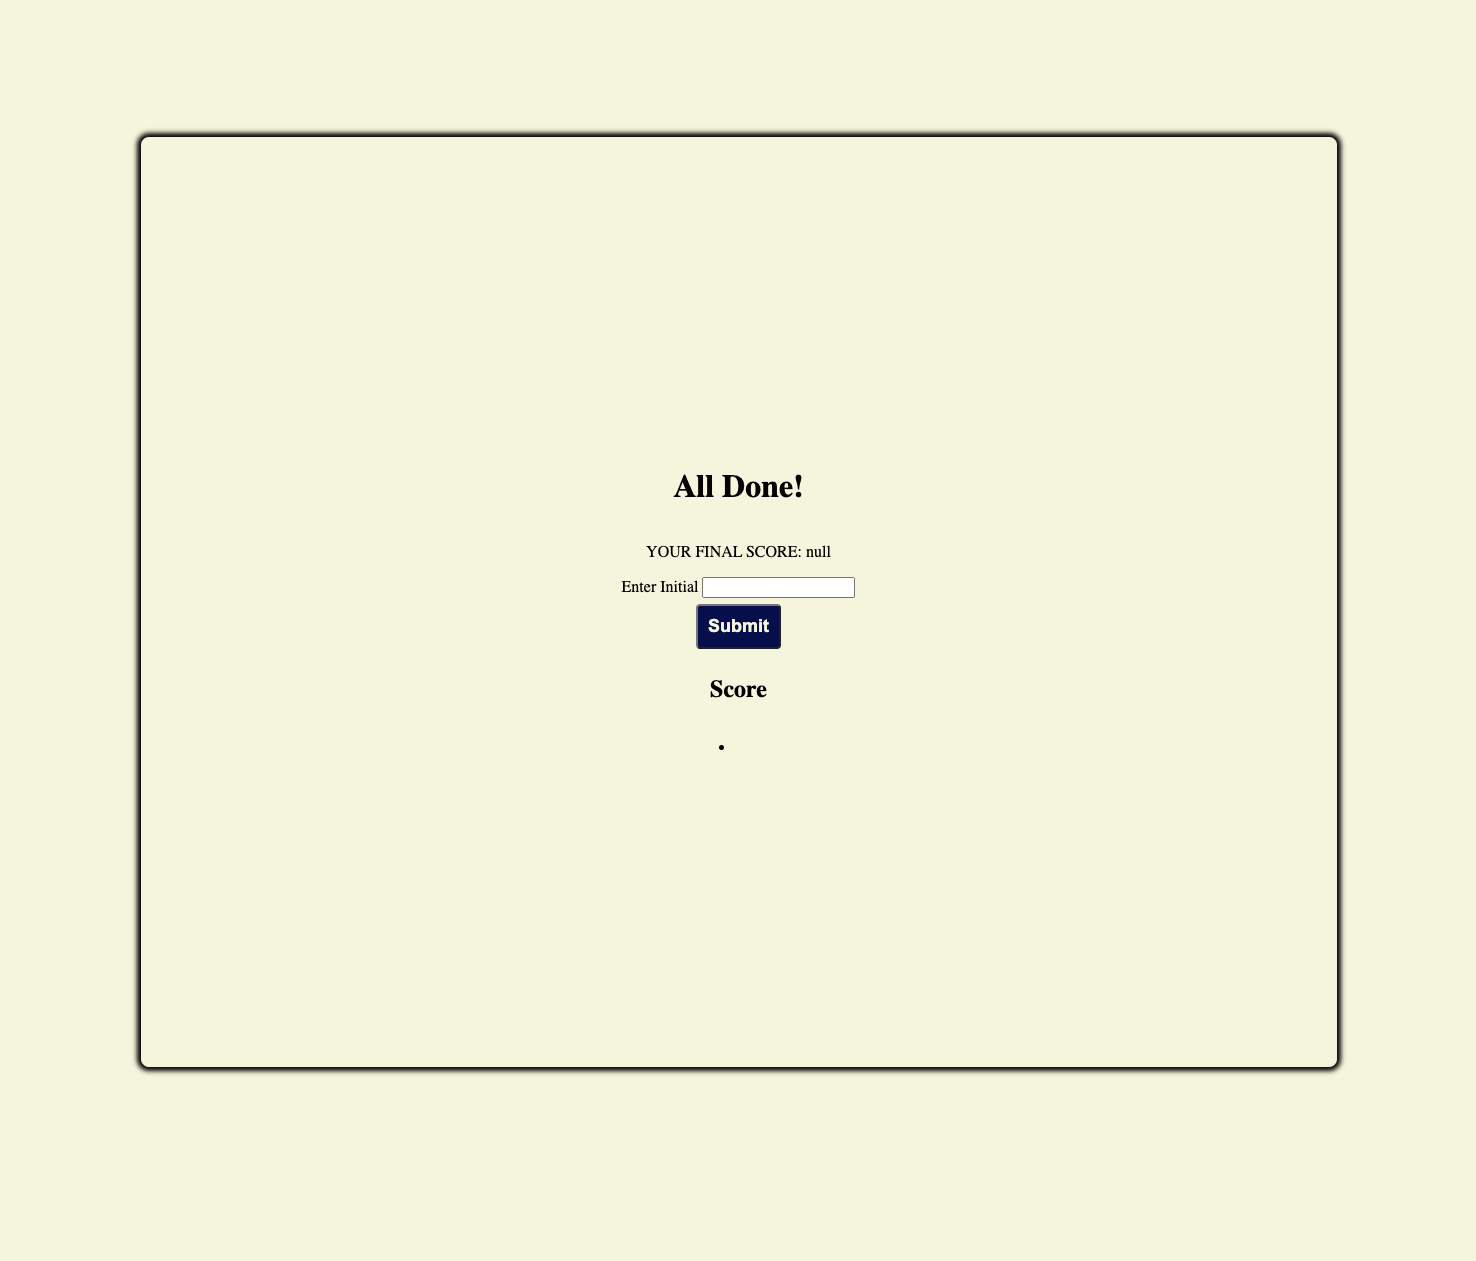
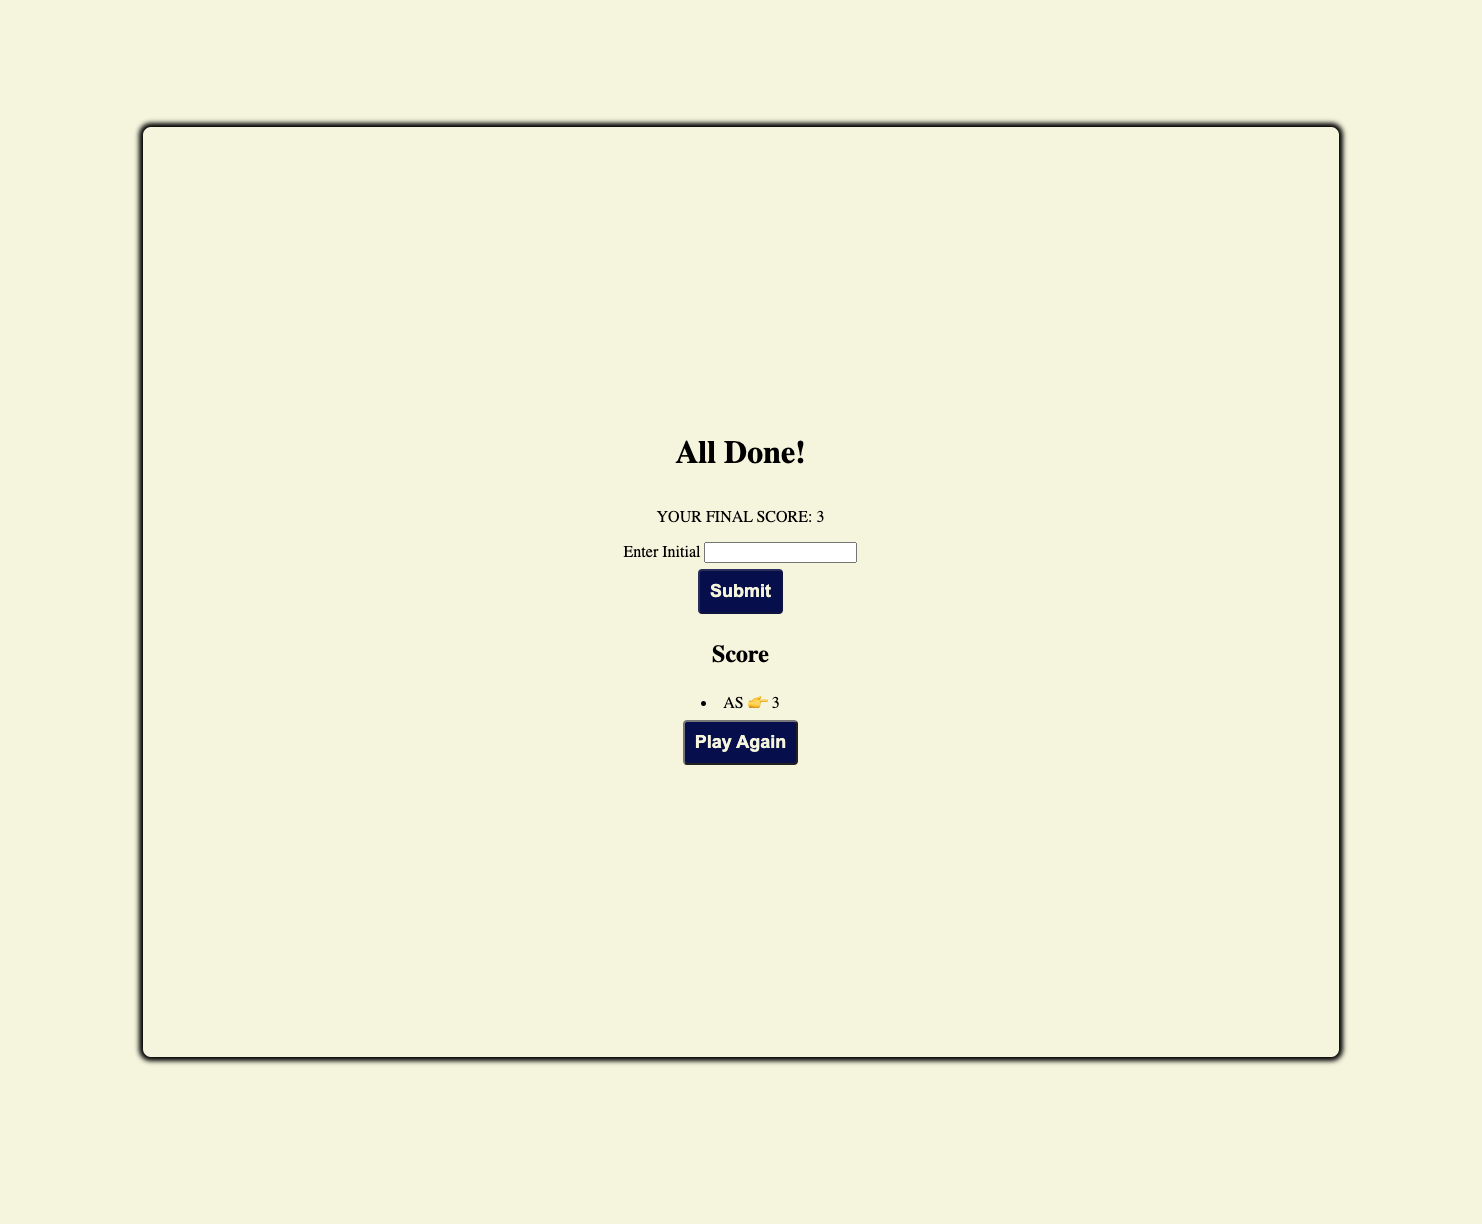
purge curr_marks before render result and updated result_page.png file

Changed region(s): [[0.0935, 0.0931, 0.935, 0.8693], [0.4051, 0.3415, 0.5921, 0.652]]

diff --git a/result/result.js b/result/result.js
@@ -12,6 +12,7 @@ finalScore.textContent = `YOUR FINAL SCORE: ${score}`;
 submitBtn.addEventListener("click", function(event){
     event.preventDefault();
     submitBtn.disabled=true;
+    window.localStorage.removeItem("curr_marks")
     var initial = document.querySelector("#initial-input").value.trim();
     if (!initial || initial.length <= 0){
         initial = "Guest";
@@ -31,30 +32,9 @@ function renderScoreBoard(){
     scoreBoard = scoreBoard.split(",")
 
     divScore.innerHTML = "";
-    for (var i = 1; i < scoreBoard.length; i++){
+    for (var i = 0; i < scoreBoard.length; i++){
     var entry = document.createElement("li");
     entry.appendChild(document.createTextNode(scoreBoard[i]));
     divScore.appendChild(entry);
     }
 }
-
-
-// renderLastRegistered();
-
-// function displayMessage(type, message) {
-//   msgDiv.textContent = message;
-//   msgDiv.setAttribute("class", type);
-// }
-
-// function renderLastRegistered() {
-//   var email = localStorage.getItem("email");
-//   var password = localStorage.getItem("password");
-
-//   if (!email || !password) {
-//     alert("Error");
-//     return;
-//   }
-
-//   userEmailSpan.textContent = email;
-//   userPasswordSpan.textContent = password;
-// }
